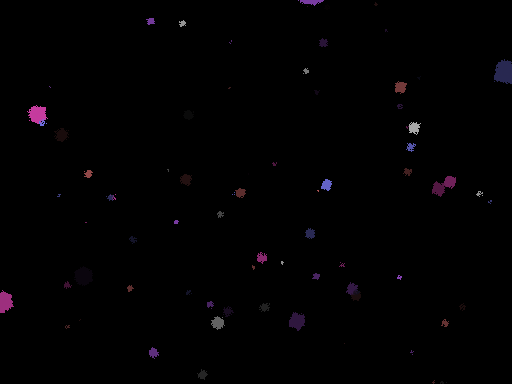
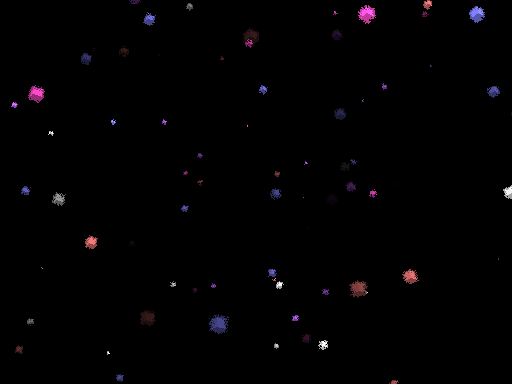
fixed up memory, changed to cubes

diff --git a/src/utils/stargenerator.cpp b/src/utils/stargenerator.cpp
@@ -90,16 +90,20 @@ void generatePrimitive(std::mt19937& generator, RenderData& renderData, std::vec
 
     for (int i = 0; i < positions.size(); i++) {
         glm::mat4 ctm = glm::mat4(1.0f);
+
+        ctm = rotate(ctm, glm::radians(-45.0f), glm::vec3(1.0f, 0.0f, 0.0f));
+        ctm = rotate(ctm, glm::radians(45.0f), glm::vec3(0.0f, 0.0f, 1.0f));
+
         ctm = translate(ctm, positions[i]);
 
         float starSize = generateSize(generator, size);
         glm::mat4 starCTM = scale(ctm, glm::vec3(starSize));
-        glm::mat4 glowCTM = scale(ctm, glm::vec3(starSize * 1.5));
+        glm::mat4 glowCTM = scale(ctm, glm::vec3(starSize * 1.3));
 
         ScenePrimitive* star = new ScenePrimitive();
         SceneMaterial &starMat = star->material;
         starMat.clear();
-        star->type = PrimitiveType::PRIMITIVE_SPHERE;
+        star->type = PrimitiveType::PRIMITIVE_CUBE;
 
         ScenePrimitive* starGlow = new ScenePrimitive();
         SceneMaterial &glowMat = starGlow->material;
@@ -128,8 +132,11 @@ void generatePrimitive(std::mt19937& generator, RenderData& renderData, std::vec
         glowMat.solid = false;
         glowMat.density = 0.1;
 
-        // renderData.shapes.push_back(RenderShapeData(*star, starCTM));
+        renderData.shapes.push_back(RenderShapeData(*star, starCTM));
         renderData.shapes.push_back(RenderShapeData(*starGlow, glowCTM));
+
+        delete star;
+        delete starGlow;
     }
 }
 
